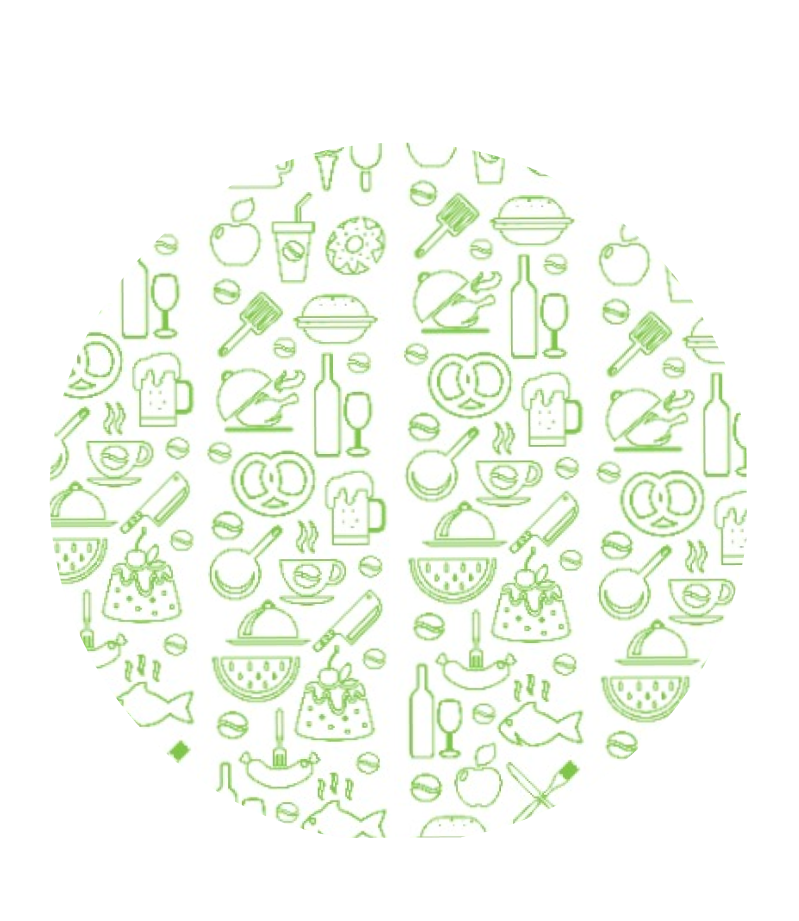
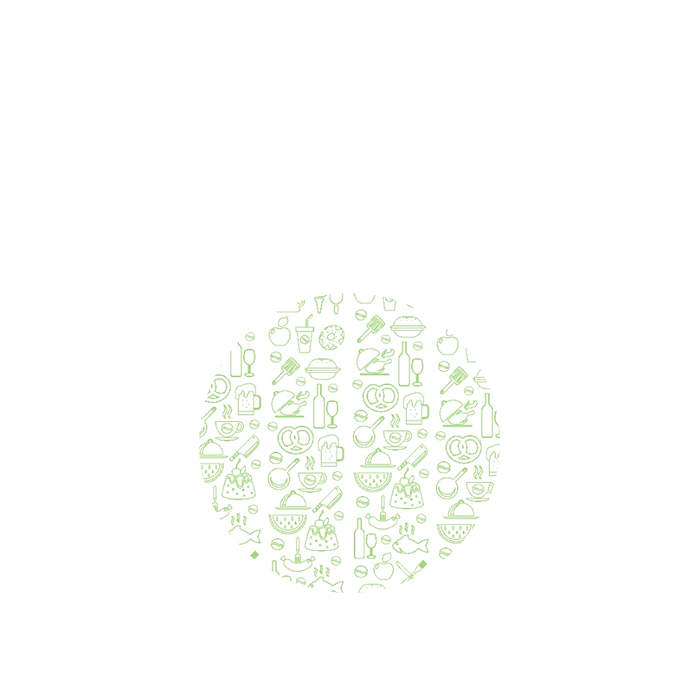
bg upgrate

Changed region(s): [[0.06, 0.15, 0.96, 0.93]]

diff --git a/src/App.js b/src/App.js
@@ -13,6 +13,7 @@ function App() {
   const [wordSubmitted, setWordSubmitted] = useState(''); //финальный поиск по слову
   const [myNutrition, setMyNutrition] = useState();
   const [stateLoader, setStateLoader] = useState(false); //лоадер
+  const [bgState, setBgState] = useState(true); //меняется бэеграунд
 
   const APP_ID = 'dc43f5c9';
   const APP_KEY = '41004f36187693a52846881269bea7f0';
@@ -20,7 +21,7 @@ function App() {
 
   const fetchData = async (ingr) => {
     setStateLoader(true);
-
+    setBgState(false);
     const response = await fetch(`${APP_URL}?app_id=${APP_ID}&app_key=${APP_KEY}`, {
       method: "POST",    //метод запроса
       headers: {
@@ -46,10 +47,7 @@ function App() {
     }
   }
   
-  //ingredients entered incorrectly
-
-
-
+  
 
   const myRecipeSearch = (e) => {
     setMySearch(e.target.value);
@@ -79,7 +77,7 @@ function App() {
 
 
   return (
-    <div>
+    <div className={bgState? 'bg-img' : ''}>
       {stateLoader && <LoaderPage />}
       
       <div className="container">

diff --git a/src/App.css b/src/App.css
@@ -1,10 +1,12 @@
 
 
-body {
+.bg-img {
   background-image:url('/src/bg2.jpg');
   background-position: center;
   background-repeat: no-repeat;
   background-size: cover;
+  min-height: 100vh;
+  margin: 0;
 } 
 
 .container {
@@ -210,17 +212,31 @@ body {
     color: #9fa09e;
   }
 
+  @media all and (max-width:1030px){
+    .bg-img {
+      background-image:url('/src/bg.png');
+    } 
+  }
+
   @media all and (max-width:430px){
     .box{
       width: 300px;
       padding: 5px;
     }
 
-    body {
-      
+    .bg-img {
       background-image: url('/src/bg4.png');
-      background-position: top;
-      background-position-y: 30px;
+      min-height: 80vh;
+    }
+
+    li::marker {
+      color: #6acd00;
+      content: normal;
+    }
+  
+    li {
+      color: #305904;
+      margin-left: -20px;
     }
     
 
